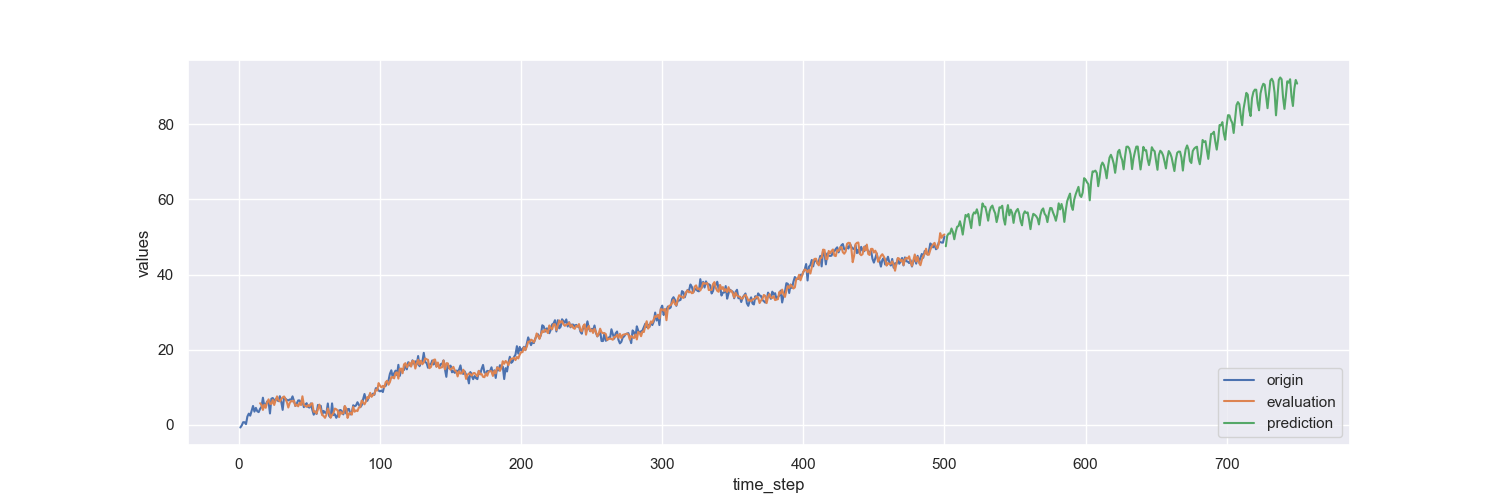
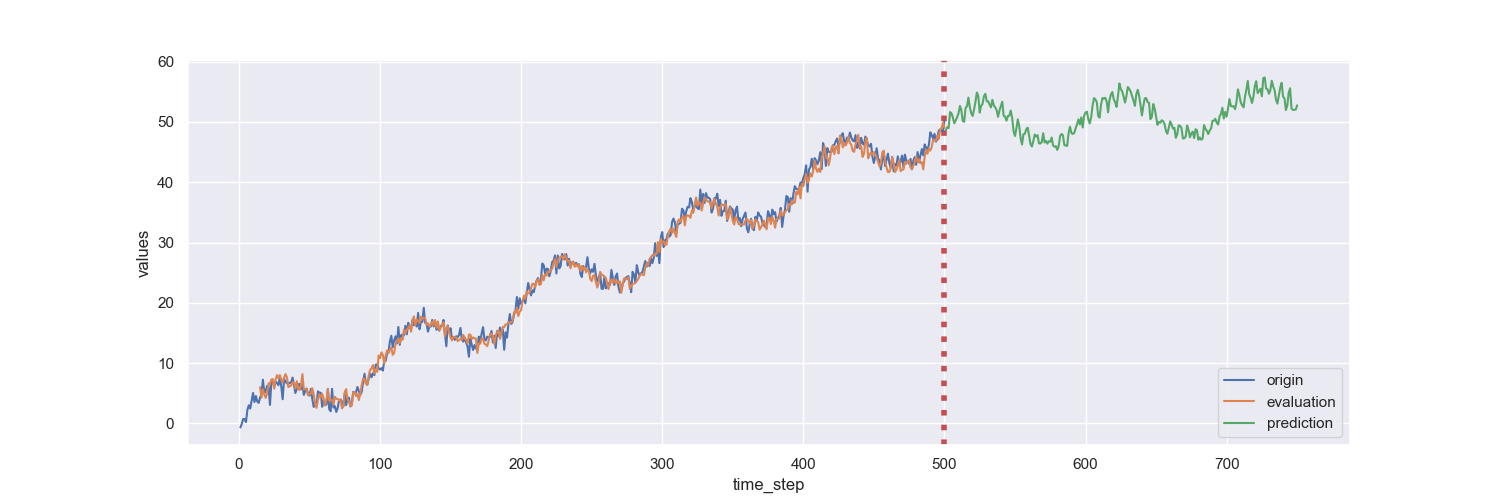
导出图片

diff --git a/time-series/lstm.py b/time-series/lstm.py
@@ -1,4 +1,4 @@
-import numpy as np
+import pandas as pd
 import tensorflow as tf
 
 from tensorflow.contrib.timeseries.python.timeseries import estimators as ts_estimators
@@ -15,7 +15,7 @@ sns.set()
 
 
 class _LSTMModel(ts_model.SequentialTimeSeriesModel):
-    """A time series model-building example using an RNNCell."""
+    """使用RNNCell的时间序列模型构建示例"""
 
     def __init__(self, num_units, num_features, dtype=tf.float32):
         """Initialize/configure the model object.
@@ -54,7 +54,6 @@ class _LSTMModel(ts_model.SequentialTimeSeriesModel):
             name_="lstm_cell",
             func_=self._lstm_cell,
             create_scope_now_=True)
-        # Transforms LSTM output into mean predictions.
         self._predict_from_lstm_output = tf.make_template(
             name_="predict_from_lstm_output",
             func_=lambda inputs: tf.layers.dense(inputs=inputs, units=self.num_features),
@@ -139,19 +138,17 @@ class _LSTMModel(ts_model.SequentialTimeSeriesModel):
 
 if __name__ == '__main__':
     tf.logging.set_verbosity(tf.logging.INFO)
-    x = np.array(range(1000))
-    noise = np.random.uniform(-0.2, 0.2, 1000)
-    y = np.sin(np.pi * x / 50) + np.cos(np.pi * x / 50) + np.sin(np.pi * x / 25) + noise
+    csv_data = pd.read_csv('data/data.csv', header=None, names=['times', 'values'])
 
     data = {
-        tf.contrib.timeseries.TrainEvalFeatures.TIMES: x,
-        tf.contrib.timeseries.TrainEvalFeatures.VALUES: y,
+        tf.contrib.timeseries.TrainEvalFeatures.TIMES: csv_data['times'],
+        tf.contrib.timeseries.TrainEvalFeatures.VALUES: csv_data['values'],
     }
 
     reader = NumpyReader(data)
 
     train_input_fn = tf.contrib.timeseries.RandomWindowInputFn(
-        reader, batch_size=4, window_size=100)
+        reader, batch_size=4, window_size=200)
 
     estimator = ts_estimators.TimeSeriesRegressor(
         model=_LSTMModel(num_features=1, num_units=128),
@@ -160,10 +157,11 @@ if __name__ == '__main__':
     estimator.train(input_fn=train_input_fn, steps=2000)
     evaluation_input_fn = tf.contrib.timeseries.WholeDatasetInputFn(reader)
     evaluation = estimator.evaluate(input_fn=evaluation_input_fn, steps=1)
-    # Predict starting after the evaluation
+
+    # 为了与AR模型相比较，此处预测长度与AR保持一致，为250
     (predictions,) = tuple(estimator.predict(
         input_fn=tf.contrib.timeseries.predict_continuation_input_fn(
-            evaluation, steps=200)))
+            evaluation, steps=250)))
 
     observed_times = evaluation["times"][0]
     observed = evaluation["observed"][0, :, :]
@@ -173,7 +171,9 @@ if __name__ == '__main__':
     predicted = predictions["mean"]
 
     plt.figure(figsize=(15, 5))
-    plt.axvline(999, linestyle="dotted", linewidth=4, color='r')
+
+    # 此处为图像分割线，之后开始显示预期数据
+    plt.axvline(500, linestyle="dotted", linewidth=4, color='r')
     observed_lines = plt.plot(observed_times, observed, label="observation", color="b")
     evaluated_lines = plt.plot(evaluated_times, evaluated, label="evaluation", color="y")
     predicted_lines = plt.plot(predicted_times, predicted, label="prediction", color="r")

diff --git a/anomaly detection/lof.py b/anomaly detection/lof.py
@@ -6,12 +6,13 @@ import seaborn as sns
 
 sns.set()
 """
-数据集是计算机的监控数据，主要包含两个特征Latency(延迟)和Throughput(吞吐量)，目标为是否是异常数据: 0为假，1为真。
+数据集是计算机的监控数据，主要包含两个特征Latency(延迟)和Throughput(吞吐量)
+目标为是否是异常数据: 0为假，1为真。
 """
 
-X_train = pd.read_csv('X_train.csv')
-X_test = pd.read_csv('X_test.csv')
-Y_test = pd.read_csv('Y_test.csv')
+X_train = pd.read_csv('data/X_train.csv')
+X_test = pd.read_csv('data/X_test.csv')
+Y_test = pd.read_csv('data/Y_test.csv')
 
 # fit the model
 clf = LocalOutlierFactor(n_neighbors=20)
@@ -62,5 +63,6 @@ plt.contourf(xx, yy, Z, cmap=plt.cm.Blues_r)
 
 b2 = plt.scatter(real_normal_series['Latency'], real_normal_series['Throughput'], c='white', s=20, edgecolor='k')
 c2 = plt.scatter(real_abnormal_series['Latency'], real_abnormal_series['Throughput'], c='red', s=20, edgecolor='k')
-
+plt.tight_layout(h_pad=1)
+plt.savefig('lof.png')
 plt.show()

diff --git a/anomaly detection/iforest.py b/anomaly detection/iforest.py
@@ -8,11 +8,12 @@ import seaborn as sns
 sns.set()
 """
 数据集是计算机的监控数据，主要包含两个特征Latency(延迟)和Throughput(吞吐量)。
+目标为是否是异常数据: 0为假，1为真。
 """
 
-X_train = pd.read_csv('X_train.csv')
-X_test = pd.read_csv('X_test.csv')
-Y_test = pd.read_csv('Y_test.csv')
+X_train = pd.read_csv('data/X_train.csv')
+X_test = pd.read_csv('data/X_test.csv')
+Y_test = pd.read_csv('data/Y_test.csv')
 
 # fit the model
 clf = IsolationForest()
@@ -63,5 +64,6 @@ plt.contourf(xx, yy, Z, cmap=plt.cm.Blues_r)
 
 b2 = plt.scatter(real_normal_series['Latency'], real_normal_series['Throughput'], c='white', s=20, edgecolor='k')
 c2 = plt.scatter(real_abnormal_series['Latency'], real_abnormal_series['Throughput'], c='red', s=20, edgecolor='k')
-
+plt.tight_layout(h_pad=1)
+plt.savefig('iforest.png')
 plt.show()

diff --git a/time-series/arima.py b/time-series/arima.py
@@ -5,6 +5,9 @@ sns.set()
 import matplotlib.pyplot as plt
 import tensorflow as tf
 
+"""
+给定500个时间序列以及对应的value，预测未来250个时间序列的情况。
+"""
 
 def main(_):
     csv_file_name = 'data/data.csv'
@@ -33,6 +36,9 @@ def main(_):
             evaluation, steps=250)))
 
     plt.figure(figsize=(15, 5))
+
+    # 此处为图像分割线，之后开始显示预期数据
+    plt.axvline(500, linestyle="dotted", linewidth=4, color='r')
     plt.plot(data['times'].reshape(-1), data['values'].reshape(-1), label='origin')
     plt.plot(evaluation['times'].reshape(-1), evaluation['mean'].reshape(-1), label='evaluation')
     plt.plot(predictions['times'].reshape(-1), predictions['mean'].reshape(-1), label='prediction')

diff --git a/regression classification/linear-regression.py b/regression classification/linear-regression.py
@@ -19,4 +19,5 @@ X_train, X_test, Y_train, Y_test = train_test_split(X, Y, test_size=0.3)
 regr = linear_model.LinearRegression().fit(X_train, Y_train)
 plt.scatter(X_test, Y_test, c='black')
 plt.plot(X_test, regr.predict(X_test), color='blue', linewidth=3)
+plt.savefig('linear-regression.png')
 plt.show()

diff --git a/cluster/agglomerative.py b/cluster/agglomerative.py
@@ -44,7 +44,9 @@ def visual_cluster_effect(cluster, dataset, title, col_id):
     # 将中心点绘制到图中
     plt.title(title)
     plt.xlabel('feature_0')
+    plt.savefig('agglomerative.png')
     plt.ylabel('feature_1')
+
     plt.show()
 
 

diff --git a/cluster/K-means.py b/cluster/K-means.py
@@ -40,6 +40,7 @@ def visual_cluster_effect(cluster, dataset, title, col_id):
     plt.title(title)
     plt.xlabel('feature_0')
     plt.ylabel('feature_1')
+    plt.savefig('k-means.png')
     plt.show()
 
 

diff --git a/cluster/gmm.py b/cluster/gmm.py
@@ -40,6 +40,7 @@ def visual_cluster_effect(cluster, dataset, title, col_id):
     plt.title(title)
     plt.xlabel('feature_0')
     plt.ylabel('feature_1')
+    plt.savefig('gmm.png')
     plt.show()
 
 
